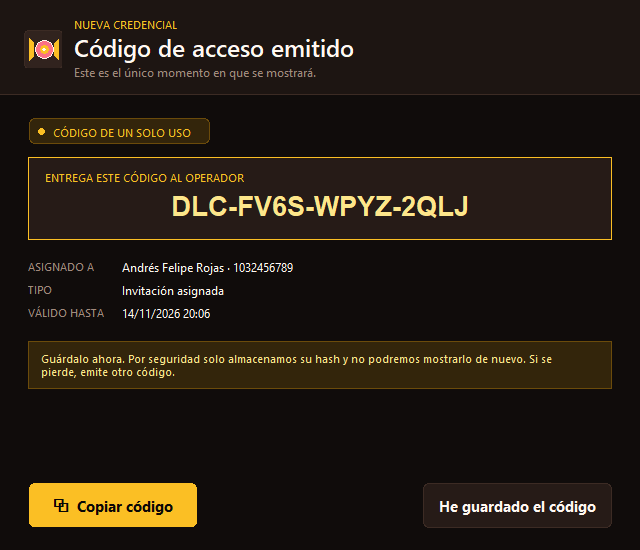
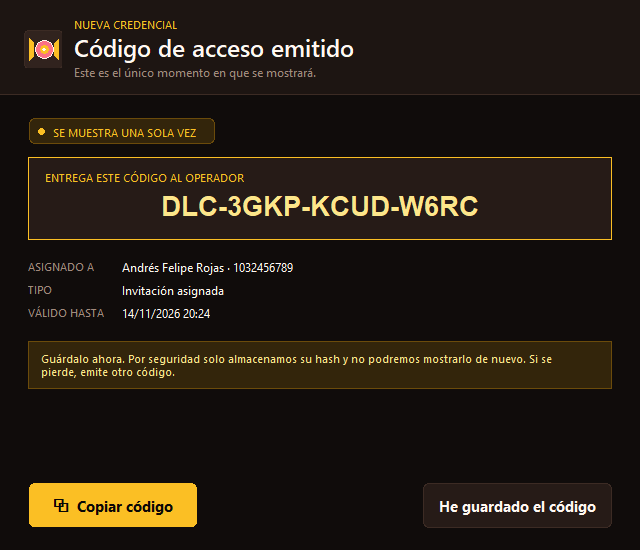
fix(ui): aclara vigencia del codigo y agrega estado de pruebas

Changed region(s): [[0.25, 0.34, 0.75, 0.4018], [0.0938, 0.2164, 0.3438, 0.2782], [0.3125, 0.5564, 0.3438, 0.5873]]

diff --git a/dulcesitos/ui/dialogos.py b/dulcesitos/ui/dialogos.py
@@ -437,7 +437,7 @@ class DialogoCodigoGenerado(DialogoBase):
         cuerpo = tk.Frame(self.tenedor, bg=tema.FONDO)
         cuerpo.pack(fill="both", expand=True, padx=28, pady=22)
 
-        Pildora(cuerpo, "CÓDIGO DE UN SOLO USO", "advertencia", fondo=tema.FONDO).pack(anchor="w")
+        Pildora(cuerpo, "SE MUESTRA UNA SOLA VEZ", "advertencia", fondo=tema.FONDO).pack(anchor="w")
         caja = tk.Frame(
             cuerpo,
             bg=tema.SUPERFICIE_2,

diff --git a/README.md b/README.md
@@ -1,5 +1,7 @@
 # Dulcesitos_Castillo · Operador de Inventarios
 
+[![Pruebas](https://github.com/MrCastilloF/Dulcesitos_Castillo/actions/workflows/pruebas.yml/badge.svg)](https://github.com/MrCastilloF/Dulcesitos_Castillo/actions/workflows/pruebas.yml)
+
 Aplicación de escritorio para **registrar y gestionar el inventario de bodega** de Dulcesitos Castillo (SENA, autor Carlos Castillo). Está pensada para operadores que trabajan de pie, con una mano ocupada y un lector USB de código de barras.
 
 > **Elección tecnológica (una línea):** Python + Tkinter permite una aplicación Windows autocontenida, sin servidor ni navegador, con acceso nativo al teclado HID/puerto serie, almacenamiento SQLite local y exportación a Excel, PDF y TXT mediante bibliotecas maduras.
